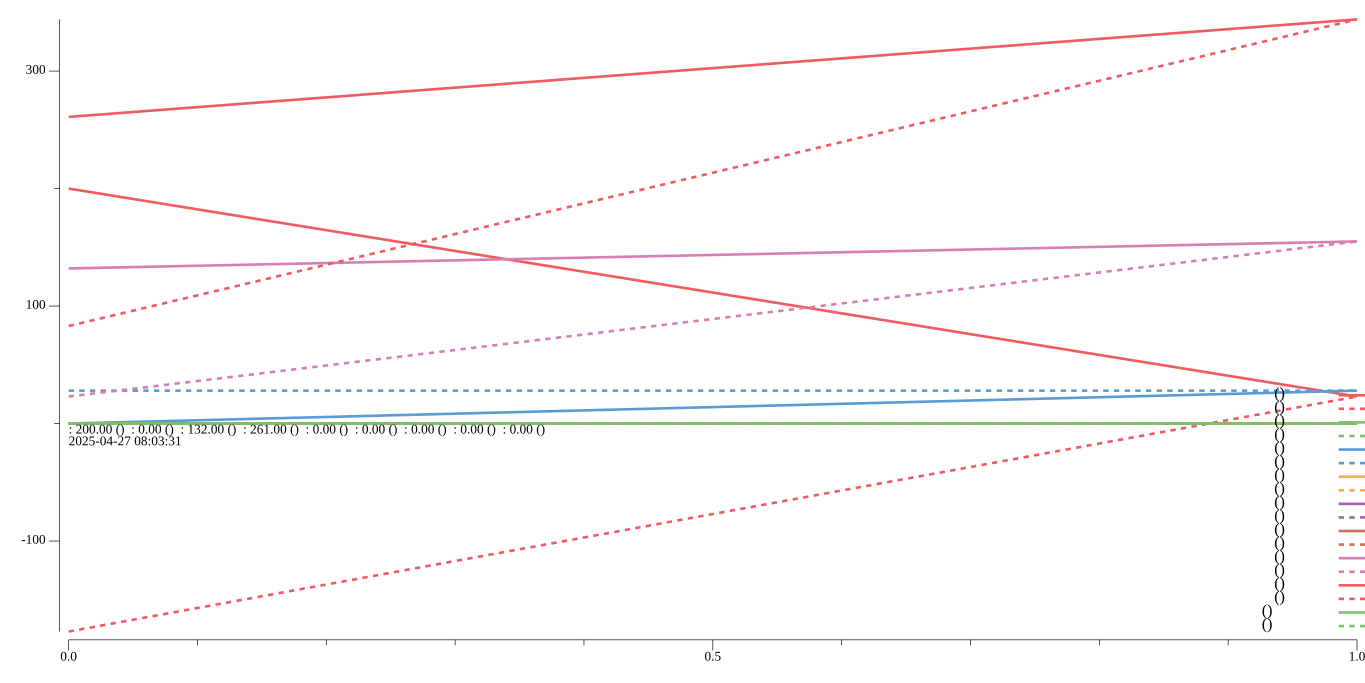
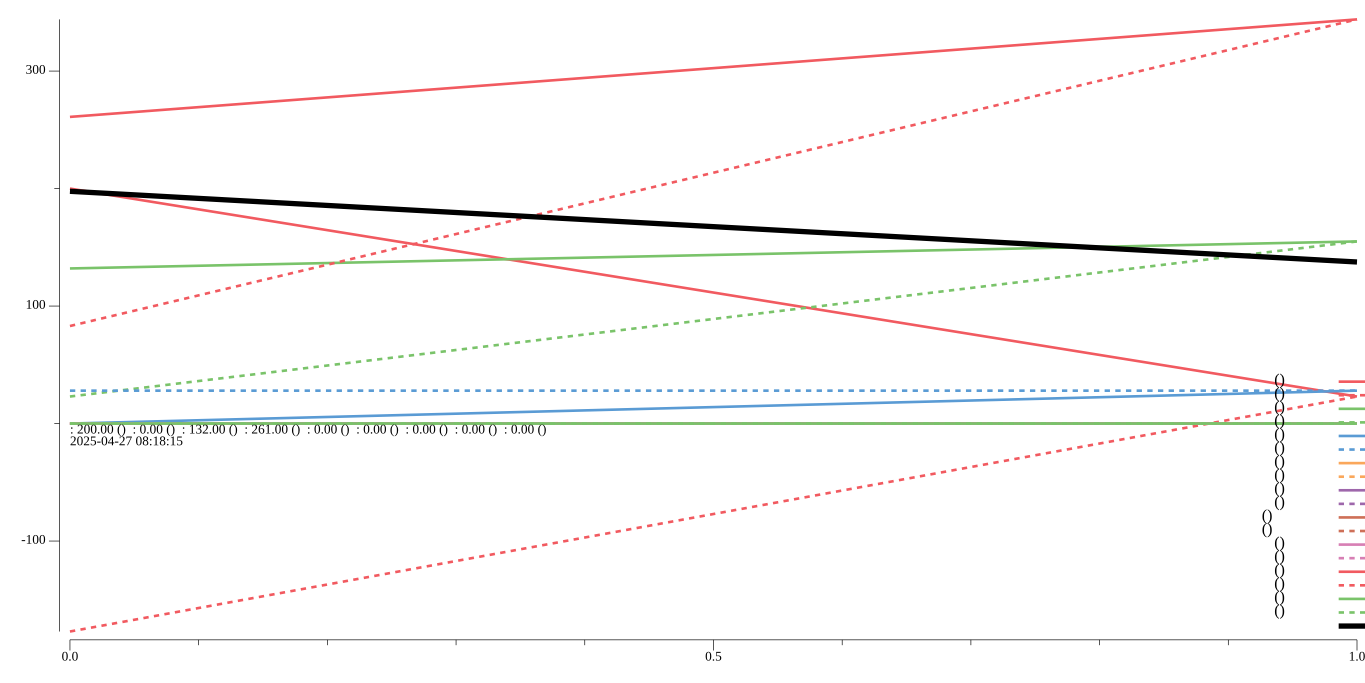
자동 집중도 데이터: 2025-04-26

diff --git a/internal/analyzer/plot.go b/internal/analyzer/plot.go
@@ -85,57 +85,15 @@ func makeWatermark() string {
 	return time.Now().Format("2006-01-02 15:04:05")
 }
 
-// PlotTimeSlotAverageFocusPNG: 시간대별 평균 몰입 점수 그래프를 PNG로 저장
+// PlotTimeSlotAverageFocusPNG: 시간대별 일자별 평균 몰입 점수 그래프를 PNG로 저장
 // - data: 여러 일자의 FocusData 배열
 // 반환: PNG 이미지 []byte, 에러
 func PlotTimeSlotAverageFocusPNG(data []common.FocusData) ([]byte, error) {
-	// 1. 모든 시간대별 점수 합계/카운트 집계
-	timeSlotSum := map[string]int{}
-	timeSlotCount := map[string]int{}
-	for _, d := range data {
-		for t, v := range d.TimeSlots {
-			timeSlotSum[t] += v
-			timeSlotCount[t]++
-		}
-	}
-	// 2. 시간대 정렬 (오름차순)
-	times := make([]string, 0, len(timeSlotSum))
-	for t := range timeSlotSum {
-		times = append(times, t)
-	}
-	type timeSlot struct {
-		h, m int
-		s    string
-	}
-	timeObjs := make([]timeSlot, 0, len(times))
-	for _, t := range times {
-		var h, m int
-		fmt.Sscanf(t, "%02d:%02d", &h, &m)
-		timeObjs = append(timeObjs, timeSlot{h, m, t})
-	}
-	sort.Slice(timeObjs, func(i, j int) bool {
-		if timeObjs[i].h == timeObjs[j].h {
-			return timeObjs[i].m < timeObjs[j].m
-		}
-		return timeObjs[i].h < timeObjs[j].h
-	})
-	// 3. plotter.XYs 생성 (x: 시간, y: 평균 점수)
-	pts := make(plotter.XYs, len(timeObjs))
-	for i, obj := range timeObjs {
-		avg := 0.0
-		if timeSlotCount[obj.s] > 0 {
-			avg = float64(timeSlotSum[obj.s]) / float64(timeSlotCount[obj.s])
-		}
-		pts[i].X = float64(obj.h) + float64(obj.m)/60.0
-		pts[i].Y = avg
-	}
-	// 4. plot 객체 생성 및 라인 추가
 	p := plot.New()
-	p.Title.Text = "시간대별 평균 몰입 점수"
+	p.Title.Text = "시간대별 일자별 평균 몰입 점수"
 	p.X.Label.Text = "시간"
 	p.Y.Label.Text = "평균 몰입 점수"
 
-	// x축 눈금/선 명시적 추가
 	p.X.Tick.Marker = plot.ConstantTicks([]plot.Tick{
 		{Value: 0, Label: "0"}, {Value: 6, Label: "6"}, {Value: 12, Label: "12"}, {Value: 18, Label: "18"}, {Value: 24, Label: "24"},
 	})
@@ -150,37 +108,21 @@ func PlotTimeSlotAverageFocusPNG(data []common.FocusData) ([]byte, error) {
 		p.Add(wm)
 	}
 
-	l, err := plotter.NewLine(pts)
-	if err != nil {
-		return nil, err
-	}
-	l.Color = plotutil.SoftColors[0]
-	l.Width = vg.Points(2)
-	p.Add(l)
-	p.X.Min = 0
-	p.X.Max = 24
-	p.Y.Min = 0
-	buf := &bytes.Buffer{}
-	w, err := p.WriterTo(vg.Points(1024), vg.Points(512), "png")
-	if err != nil {
-		return nil, err
-	}
-	_, err = w.WriteTo(buf)
-	if err != nil {
-		return nil, err
-	}
-	return buf.Bytes(), nil
-}
-
-// PlotTimeSlotAverageFocusPNGPerDay: 일자별 시간대별 평균 몰입 점수 그래프를 PNG로 저장
-// - data: 여러 일자의 FocusData 배열
-// 반환: map[일자]PNG []byte, 에러
-func PlotTimeSlotAverageFocusPNGPerDay(data []common.FocusData) (map[string][]byte, error) {
-	result := make(map[string][]byte)
-	for _, d := range data {
-		// 1. 시간대별 점수 추출 (해당 일자만)
-		times := make([]string, 0, len(d.TimeSlots))
-		for t := range d.TimeSlots {
+	colors := plotutil.SoftColors
+	for idx, d := range data {
+		// 시간대별 점수 집계 (0점 제외)
+		timeSlotSum := map[string]int{}
+		timeSlotCount := map[string]int{}
+		for t, v := range d.TimeSlots {
+			if v == 0 {
+				continue
+			}
+			timeSlotSum[t] += v
+			timeSlotCount[t]++
+		}
+		// 시간대 정렬
+		times := make([]string, 0, len(timeSlotSum))
+		for t := range timeSlotSum {
 			times = append(times, t)
 		}
 		type timeSlot struct {
@@ -201,60 +143,48 @@ func PlotTimeSlotAverageFocusPNGPerDay(data []common.FocusData) (map[string][]by
 		})
 		pts := make(plotter.XYs, len(timeObjs))
 		for i, obj := range timeObjs {
+			avg := 0.0
+			if timeSlotCount[obj.s] > 0 {
+				avg = float64(timeSlotSum[obj.s]) / float64(timeSlotCount[obj.s])
+			}
 			pts[i].X = float64(obj.h) + float64(obj.m)/60.0
-			pts[i].Y = float64(d.TimeSlots[obj.s])
+			pts[i].Y = avg
 		}
-		p := plot.New()
-		p.Title.Text = d.Date + " 시간대별 몰입 점수"
-		p.X.Label.Text = "시간"
-		p.Y.Label.Text = "몰입 점수"
-
-		// x축 눈금/선 명시적 추가
-		p.X.Tick.Marker = plot.ConstantTicks([]plot.Tick{
-			{Value: 0, Label: "0"}, {Value: 6, Label: "6"}, {Value: 12, Label: "12"}, {Value: 18, Label: "18"}, {Value: 24, Label: "24"},
-		})
-		p.X.LineStyle.Width = vg.Points(1)
-		p.X.LineStyle.Color = color.Gray{Y: 128}
-
-		// 워터마크 추가
-		if wm, err := plotter.NewLabels(plotter.XYLabels{
-			XYs:    []plotter.XY{{X: 12, Y: p.Y.Min - 5}},
-			Labels: []string{makeWatermark()},
-		}); err == nil {
-			p.Add(wm)
+		if len(pts) == 0 {
+			continue
 		}
-
 		l, err := plotter.NewLine(pts)
 		if err != nil {
 			return nil, err
 		}
-		l.Color = plotutil.SoftColors[0]
+		l.Color = colors[idx%len(colors)]
 		l.Width = vg.Points(2)
 		p.Add(l)
-		p.X.Min = 0
-		p.X.Max = 24
-		p.Y.Min = 0
-		buf := &bytes.Buffer{}
-		w, err := p.WriterTo(vg.Points(1024), vg.Points(512), "png")
-		if err != nil {
-			return nil, err
-		}
-		_, err = w.WriteTo(buf)
-		if err != nil {
-			return nil, err
-		}
-		result[d.Date] = buf.Bytes()
+		p.Legend.Add(d.Date, l)
 	}
-	return result, nil
+	p.X.Min = 0
+	p.X.Max = 24
+	p.Y.Min = 0
+	buf := &bytes.Buffer{}
+	w, err := p.WriterTo(vg.Points(1024), vg.Points(512), "png")
+	if err != nil {
+		return nil, err
+	}
+	_, err = w.WriteTo(buf)
+	if err != nil {
+		return nil, err
+	}
+	return buf.Bytes(), nil
 }
 
-// DrawFocusTrends: 준비된 데이터(points, regressionLines, evalText, watermark)로 그림만 그림
+// DrawFocusTrends: 준비된 데이터(points, regressionLines, evalText, watermark, aggregateLine)로 그림만 그림
 // - points: 카테고리별 실제 점 데이터
 // - regressionLines: 카테고리별 회귀선 데이터
 // - evalText: 평가 텍스트
 // - watermark: 워터마크(날짜/시간)
+// - aggregateLine: 전체 평균 라인 (없으면 nil)
 // 반환: PNG 이미지 []byte, 에러
-func DrawFocusTrends(points, regressionLines map[string]plotter.XYs, evalText, watermark string) ([]byte, error) {
+func DrawFocusTrends(points, regressionLines map[string]plotter.XYs, evalText, watermark string, aggregateLine plotter.XYs) ([]byte, error) {
 	p := plot.New()
 	p.Title.Text = "카테고리별 트렌드 및 회귀선"
 	p.X.Label.Text = "일자"
@@ -284,6 +214,18 @@ func DrawFocusTrends(points, regressionLines map[string]plotter.XYs, evalText, w
 			p.Legend.Add(cat+"(회귀)", rl)
 		}
 		colorIdx++
+	}
+
+	// aggregateLine이 있으면 굵은 검정색 선으로 추가
+	if aggregateLine != nil && len(aggregateLine) > 0 {
+		aggLine, err := plotter.NewLine(aggregateLine)
+		if err != nil {
+			return nil, err
+		}
+		aggLine.Color = color.Black
+		aggLine.Width = vg.Points(4)
+		p.Add(aggLine)
+		p.Legend.Add("전체 평균", aggLine)
 	}
 
 	// 평가 텍스트 추가

diff --git a/internal/analyzer/analyzer.go b/internal/analyzer/analyzer.go
@@ -31,6 +31,67 @@ func PlotFocusTrendsAndRegression(data []common.FocusData) ([]byte, error) {
 	if len(data) == 0 {
 		return nil, fmt.Errorf("분석할 데이터가 없습니다")
 	}
-	points, regressionLines, evalText, watermark := PreparePlotData(data)
-	return DrawFocusTrends(points, regressionLines, evalText, watermark)
+	// PreparePlotData logic inlined here
+	points := map[string]plotter.XYs{} // 카테고리별 실제 점 데이터
+	regressionLines := map[string]plotter.XYs{} // 카테고리별 회귀선 데이터
+	for _, cat := range common.Categories {
+		points[cat] = makeCategoryPoints(data, cat) // 실제 점 생성
+		regressionLines[cat] = makeRegressionPoints(data, cat) // 회귀선 생성
+	}
+	evalText := makeEvalText(data) // 카테고리별 트렌드 평가 텍스트
+	watermark := makeWatermark() // 워터마크(날짜/시간)
+
+	// aggregateLine 계산: 각 일자별로 모든 카테고리 점수의 평균 (0점 제외)
+	aggregateLine := make(plotter.XYs, len(data))
+	for i, d := range data {
+		sum := 0
+		count := 0
+		for _, v := range d.Categories {
+			if v == 0 {
+				continue
+			}
+			sum += v
+			count++
+		}
+		avg := 0.0
+		if count > 0 {
+			avg = float64(sum) / float64(count)
+		}
+		aggregateLine[i].X = float64(i)
+		aggregateLine[i].Y = avg
+	}
+
+	return DrawFocusTrends(points, regressionLines, evalText, watermark, aggregateLine)
+}
+
+// PlotTimeSlotAverageFocusAggregatePNG: 전체 데이터를 합산하여 단일 평균 라인 그래프를 그림
+// - data: 여러 일자의 FocusData 배열
+// 반환: PNG 이미지 []byte, 에러
+func PlotTimeSlotAverageFocusAggregatePNG(data []common.FocusData) ([]byte, error) {
+	if len(data) == 0 {
+		return nil, fmt.Errorf("분석할 데이터가 없습니다")
+	}
+	// 시간대별 합산 및 평균 계산 (0점 제외)
+	timeSlotSum := map[string]int{}
+	timeSlotCount := map[string]int{}
+	for _, d := range data {
+		for t, v := range d.TimeSlots {
+			if v == 0 {
+				continue
+			}
+			timeSlotSum[t] += v
+			timeSlotCount[t]++
+		}
+	}
+	agg := common.FocusData{
+		Date:      "Aggregate",
+		TimeSlots: map[string]int{},
+	}
+	for t, sum := range timeSlotSum {
+		if timeSlotCount[t] > 0 {
+			agg.TimeSlots[t] = int(float64(sum) / float64(timeSlotCount[t]) + 0.5) // 반올림
+		}
+	}
+	
+	return PlotTimeSlotAverageFocusPNG([]common.FocusData{agg})
 }

diff --git a/internal/exporter/git.go b/internal/exporter/git.go
@@ -29,6 +29,7 @@ func PushGitbookAssets(repoPath, commitMsg string) error {
 	log.Println("[PushGitbookAssets] === gitbook(submodule) push 시작 ===")
 	cmds := [][]string{
 		{"-C", repoPath, "add", ".gitbook/assets/graph.png"},
+		{"-C", repoPath, "add", ".gitbook/assets/timeslot-images.png"},
 		{"-C", repoPath, "commit", "-m", commitMsg},
 		{"-C", repoPath, "pull", "--rebase", "origin", "main"},
 		{"-C", repoPath, "push", "--no-verify", "origin", "HEAD:main"},

diff --git a/internal/exporter/file.go b/internal/exporter/file.go
@@ -131,7 +131,7 @@ func LoadRecentFocusData(rawDir string, days int) ([]common.FocusData, error) {
 // - paths: 저장할 경로들
 func SaveTimeSlotGraphs(data []common.FocusData, paths ...string) error {
 	// 7일 평균 시간대별 몰입 그래프 저장
-	avgImg, err := analyzer.PlotTimeSlotAverageFocusPNG(data)
+	avgImg, err := analyzer.PlotTimeSlotAverageFocusAggregatePNG(data)
 	if err != nil {
 		return err
 	}
